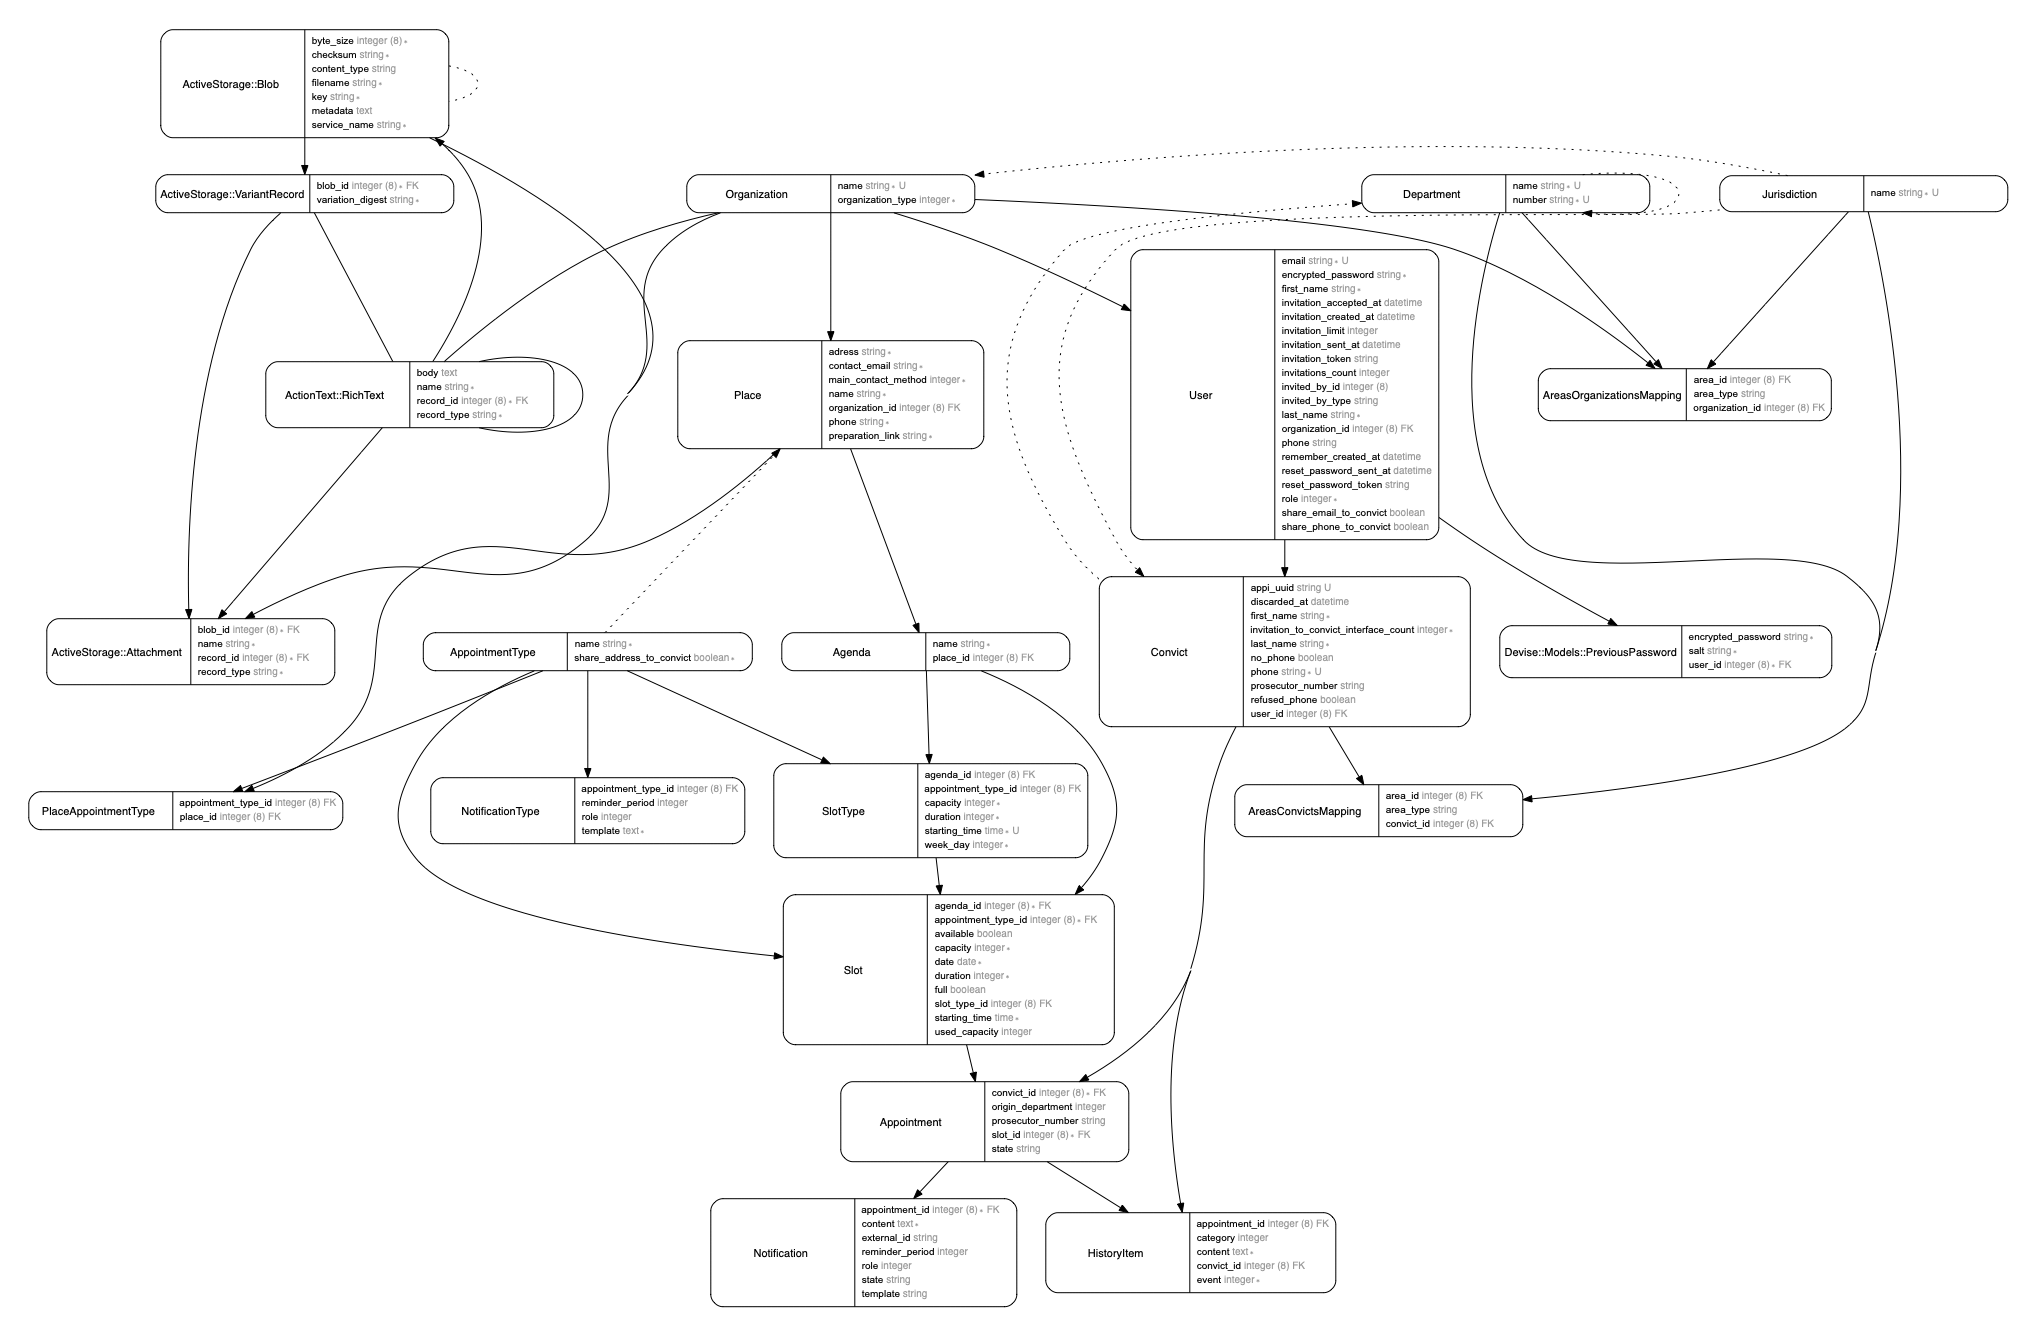
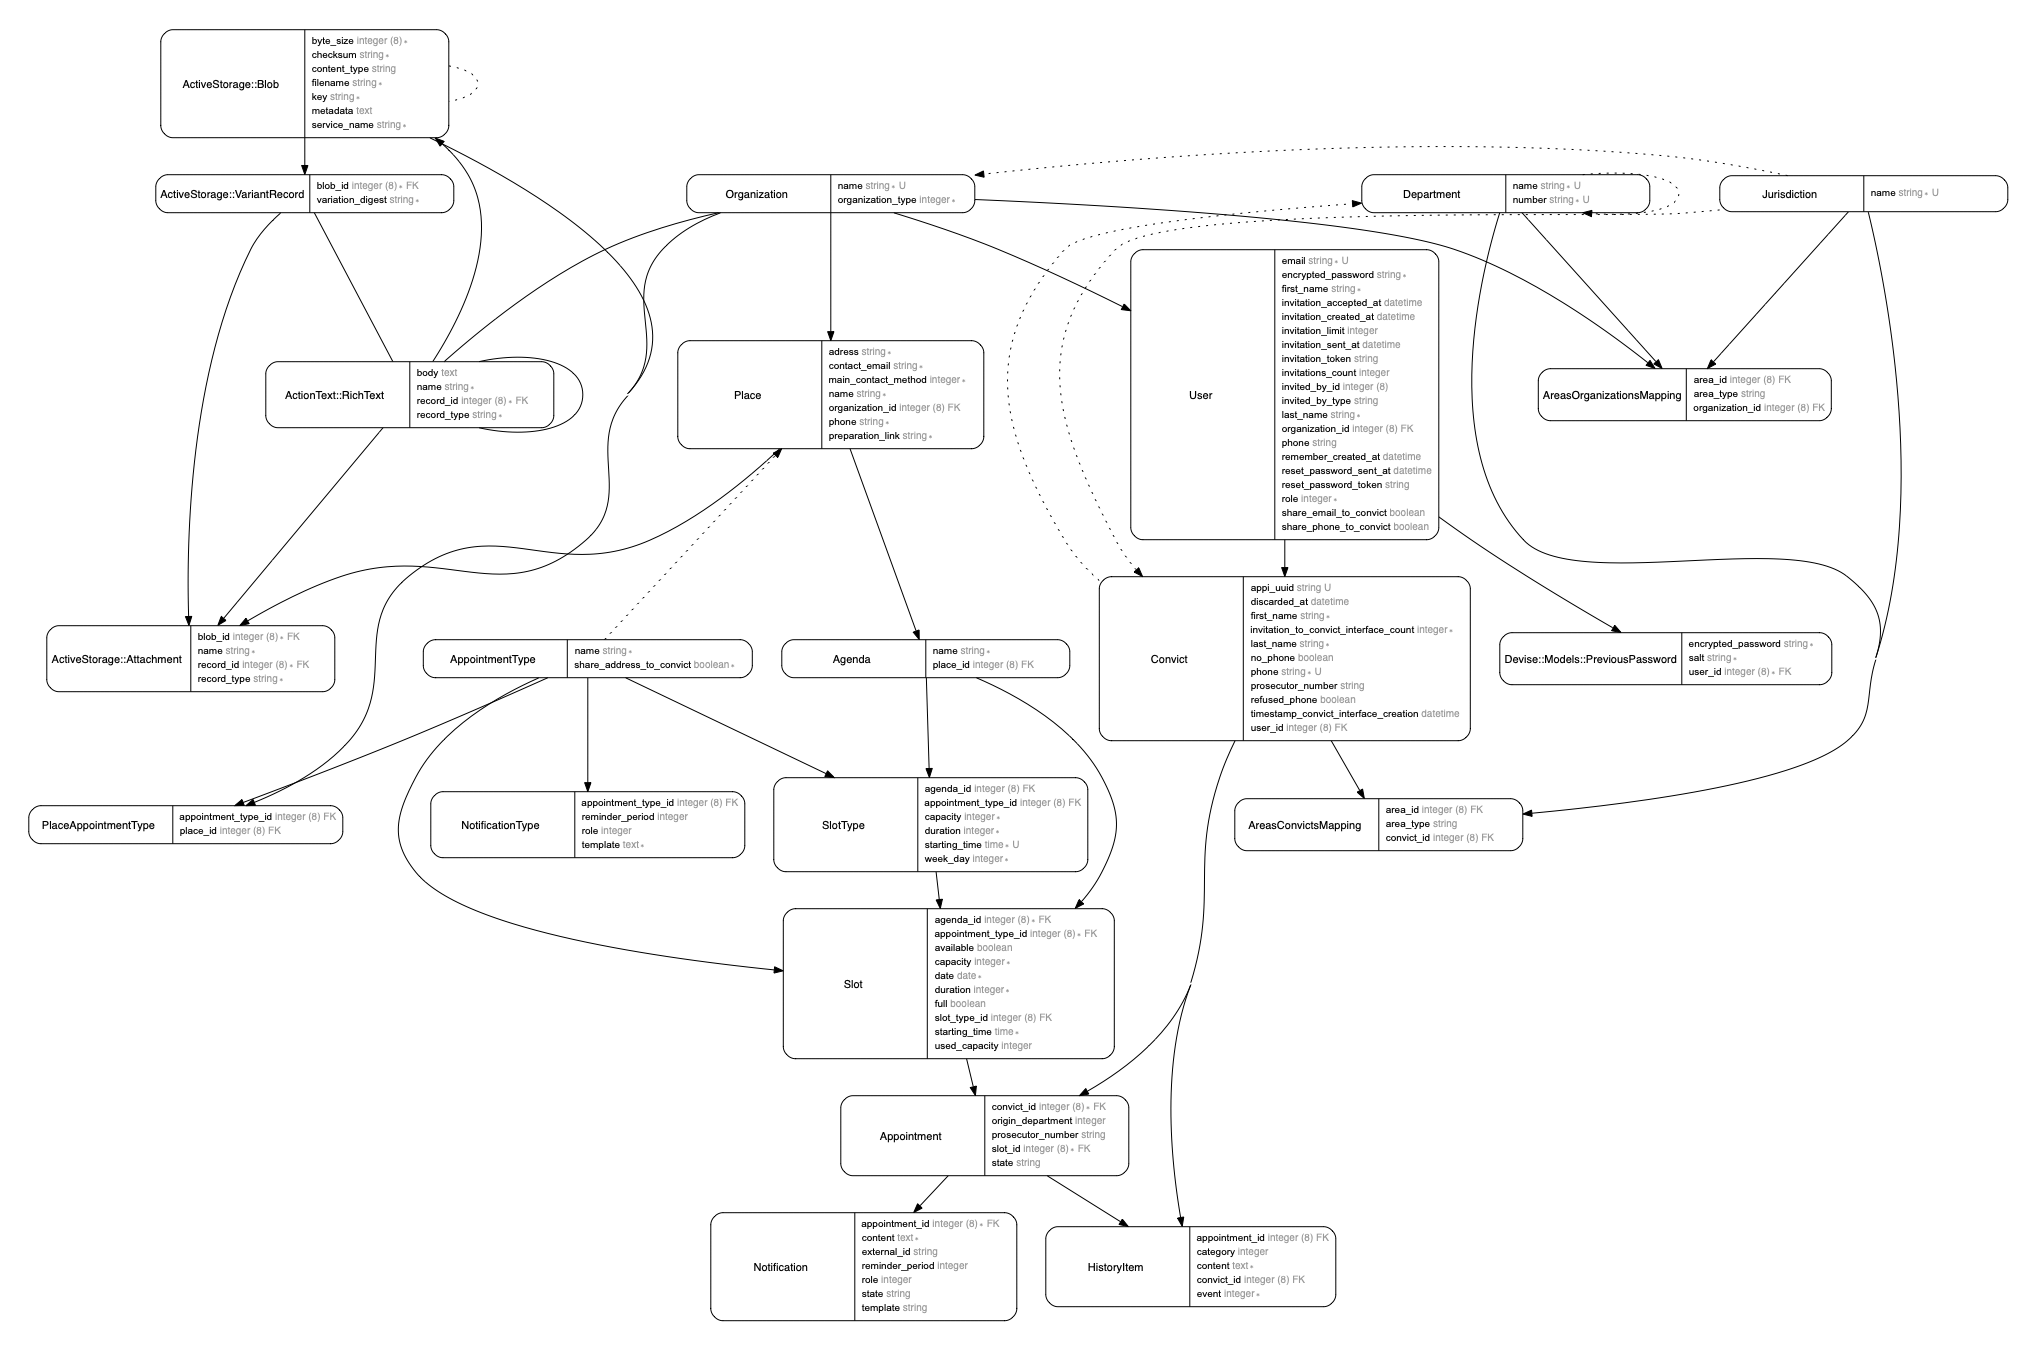
Add tests

diff --git a/spec/requests/api/v1/convict_invitations_spec.rb b/spec/requests/api/v1/convict_invitations_spec.rb
@@ -1,0 +1,69 @@
+require 'rails_helper'
+
+RSpec.describe '/api/v1/convicts/:convict_id/invitation', type: :request do
+  with_env('HTTP_BASIC_AUTH_USER', 'username')
+  with_env('HTTP_BASIC_AUTH_PSWD', 'password')
+
+  let(:do_request) { patch(path.to_s, headers: headers) }
+
+  let(:convict) { create(:convict, id: 1, timestamp_convict_interface_creation: nil) }
+
+  describe 'Patch' do
+    let(:path) { "/api/v1/convicts/#{convict.id}/invitation" }
+
+    before do
+      do_request
+    end
+
+    context 'with the right api_key' do
+      let(:headers) do
+        { 'Authorization' => ActionController::HttpAuthentication::Basic.encode_credentials('username', 'password') }
+      end
+
+      context 'basic call' do
+        it 'renders a successful response' do
+          expect(response).to be_successful
+        end
+
+        it 'updates the convict timestamp_convict_interface_creation' do
+          convict.reload
+          expect(convict.timestamp_convict_interface_creation).not_to be_nil
+        end
+      end
+
+      context 'for a user who does not exist' do
+        let(:path) { '/api/v1/convicts/10/invitation' }
+
+        let(:expected_response) do
+          { 'error' => 'Not found' }
+        end
+
+        it 'renders a successful response' do
+          expect(response).to be_not_found
+        end
+
+        it 'has the right not found content' do
+          expect(JSON.parse(response.body)).to match(expected_response)
+        end
+      end
+    end
+
+    context 'with the wrong api_key' do
+      let(:headers) do
+        { 'Authorization' => ActionController::HttpAuthentication::Basic.encode_credentials('mauvais', 'password') }
+      end
+
+      it 'renders a successful response with the wrong api_key' do
+        expect(response).to be_unauthorized
+      end
+    end
+
+    context 'without api_key' do
+      let(:headers) { {} }
+
+      it 'renders a successful response without api_key' do
+        expect(response).to be_unauthorized
+      end
+    end
+  end
+end

diff --git a/db/schema.rb b/db/schema.rb
@@ -10,7 +10,7 @@
 #
 # It's strongly recommended that you check this file into your version control system.
 
-ActiveRecord::Schema.define(version: 2022_04_22_153124) do
+ActiveRecord::Schema.define(version: 2022_04_25_142932) do
 
   # These are extensions that must be enabled in order to support this database
   enable_extension "plpgsql"
@@ -115,6 +115,7 @@ ActiveRecord::Schema.define(version: 2022_04_22_153124) do
     t.datetime "discarded_at"
     t.bigint "user_id"
     t.integer "invitation_to_convict_interface_count", default: 0, null: false
+    t.datetime "timestamp_convict_interface_creation"
     t.index ["discarded_at"], name: "index_convicts_on_discarded_at"
     t.index ["user_id"], name: "index_convicts_on_user_id"
   end

diff --git a/app/controllers/api/v1/convict_invitations_controller.rb b/app/controllers/api/v1/convict_invitations_controller.rb
@@ -1,0 +1,12 @@
+module Api
+  module V1
+    class ConvictInvitationsController < ApiController
+      def update
+        @convict = Convict.find(params[:convict_id])
+        raise ActiveRecord::RecordNotFound unless @convict.present?
+
+        @convict.update(timestamp_convict_interface_creation: Time.zone.now)
+      end
+    end
+  end
+end

diff --git a/config/routes.rb b/config/routes.rb
@@ -76,7 +76,9 @@ Rails.application.routes.draw do
 
   namespace :api, defaults: {format: "json"} do
     namespace :v1 do
-      resources :convicts, only: :show
+      resources :convicts, only: :show do
+        resource :invitation, only: :update, controller: 'convict_invitations'
+      end
     end
   end
 

diff --git a/spec/requests/api/v1/convicts_spec.rb b/spec/requests/api/v1/convicts_spec.rb
@@ -1,6 +1,6 @@
 require 'rails_helper'
 
-RSpec.describe '/admin/api/v1/accounts', type: :request do
+RSpec.describe '/api/v1/convicts/:id', type: :request do
   with_env('HTTP_BASIC_AUTH_USER', 'username')
   with_env('HTTP_BASIC_AUTH_PSWD', 'password')
 

diff --git a/app/models/convict.rb b/app/models/convict.rb
@@ -89,6 +89,6 @@ class Convict < ApplicationRecord
   end
 
   def invitable_to_convict_interface?
-    invitation_to_convict_interface_count < 3
+    invitation_to_convict_interface_count < 3 && timestamp_convict_interface_creation.nil?
   end
 end

diff --git a/db/migrate/20220425142932_add_invitation_acceptation_to_convict.rb b/db/migrate/20220425142932_add_invitation_acceptation_to_convict.rb
@@ -1,0 +1,5 @@
+class AddInvitationAcceptationToConvict < ActiveRecord::Migration[6.1]
+  def change
+    add_column :convicts, :timestamp_convict_interface_creation, :datetime
+  end
+end
